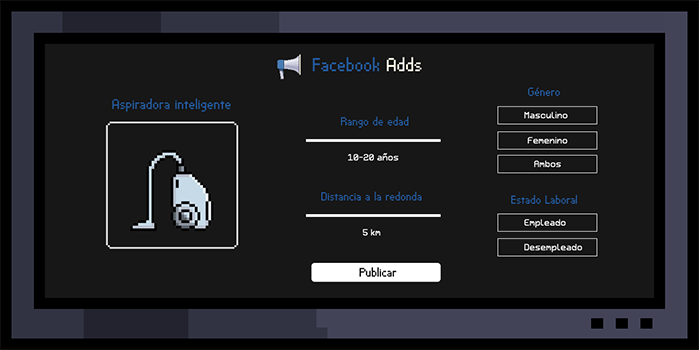
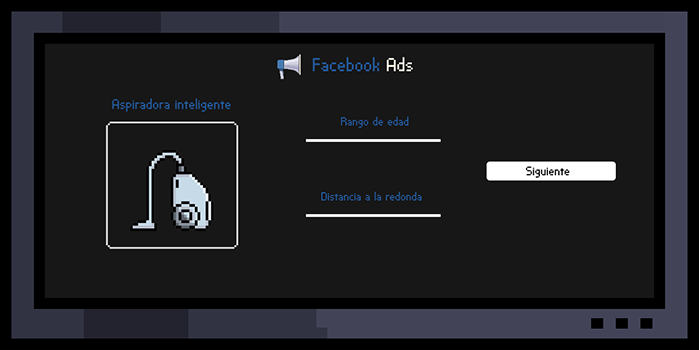
Finished levels

diff --git a/sketch.js b/sketch.js
@@ -1,6 +1,6 @@
 let player;
 let complemetaryObjs
-let screensCounter = 0;
+let screensCounter = 6;
 
 let playerLock = false;
 let transitioning = true;
@@ -44,6 +44,15 @@ let gameFiveCases = false;
 let rangeOneX = 303;
 let rangeOneY = 140;
 let rangeOneOn = false;
+let rangeTwoX = 303;
+let rangeTwoY = 215;
+let rangeTwoOn = false;
+let backgroundCounter = 0;
+let secondScreenFive = false;
+let backgroundOneDecision = 0;
+let secondAct = false;
+let backgroundTwoDecOne = 0;
+let backgroundTwoDecTwo = 0;
 
 
 // Donde se pueden colocar las cervezas
@@ -93,7 +102,7 @@ function preload() {
   //Cosas del 5 juego
 
   instructionsGame5 = [loadImage("./assets/instructionsGame5_1.png"), loadImage("./assets/instructionsGame5_2.png"), loadImage("./assets/nivel5background.png")];
-
+  backgroundsGame5 = [loadImage("./assets/nivel5background2.png"), loadImage("./assets/nivel5background3.png")]
 
   // Cosas del cuarto juego
   gameFouDialogue = loadImage("./assets/game4-location1.png");
@@ -275,19 +284,23 @@ function draw() {
       case 6:
         image(instructionsGame5[instructionsOrderFive], 0, 0)
         
+        let rangeOneValue = "";
+        let rangeTwoValue = "";
 
-        if (gameFiveCases === true) { 
+        if (gameFiveCases === true) {
 
           fill(35, 89, 155)
           circle(rangeOneX, rangeOneY, 10)
+          circle(rangeTwoX, rangeTwoY, 10)
 
 
           if (rangeOneOn === true) {
             rangeOneX = mouseX;
           }
 
-          if (rangeOneX > 434 && rangeOneOn === true) {
-            rangeOneX = 430;
+          //Limitex primera
+          if (rangeOneX > 438 && rangeOneOn === true) {
+            rangeOneX = 438;
             rangeOneOn = !rangeOneOn;
           }
 
@@ -296,13 +309,166 @@ function draw() {
             rangeOneOn = !rangeOneOn;
           }
 
-          if (rangeOneX > 303 && rangeOneX < 324) { 
-
-          } 
-
+          //Limites segunda
+          
+          if (rangeTwoOn === true) {
+            rangeTwoX = mouseX;
           }
 
+          if (rangeTwoX > 438 && rangeTwoOn === true) {
+            rangeTwoX = 438;
+            rangeTwoOn = !rangeTwoOn;
+          }
+
+          if (rangeTwoX < 303 && rangeTwoOn === true) {
+            rangeTwoX = 303;
+            rangeTwoOn = !rangeTwoOn;
+          }
+          //Primea
+          //1
+          if (rangeOneX > 303 && rangeOneX < 324) {
+            rangeOneValue = "0-10 años"
+          }
+
+          //2
+          if (rangeOneX > 324 && rangeOneX < 344) {
+            rangeOneValue = "10-15 años"
+          }
+
+          //3
+          if (rangeOneX > 344 && rangeOneX < 364) {
+            rangeOneValue = "15-20 años"
+          }
+
+          //4
+          if (rangeOneX > 364 && rangeOneX < 384) {
+            rangeOneValue = "20-25 años"
+          }
+
+          //5
+          if (rangeOneX > 384 && rangeOneX < 404) {
+            rangeOneValue = "25-30 años"
+          }
+
+          //6
+          if (rangeOneX > 404 && rangeOneX < 424) {
+            rangeOneValue = "35-40 años"
+          }
         
+          //7
+          if (rangeOneX > 424 && rangeOneX < 444) {
+            rangeOneValue = "40-45 años"
+          }
+
+
+          //Limites segunda
+
+          if (rangeTwoOn === true) {
+            rangeTwoX = mouseX;
+          }
+
+          if (rangeTwoX > 438 && rangeTwoOn === true) {
+            rangeTwoX = 438;
+            rangeTwoOn = !rangeTwoOn;
+          }
+
+          if (rangeTwoX < 303 && rangeTwoOn === true) {
+            rangeTwoX = 303;
+            rangeTwoOn = !rangeTwoOn;
+          }
+          //Primea
+          //1
+          if (rangeTwoX > 303 && rangeTwoX < 324) {
+            rangeTwoValue = "1 km"
+          }
+
+          //2
+          if (rangeTwoX > 324 && rangeTwoX < 344) {
+            rangeTwoValue = "2 km"
+          }
+
+          //3
+          if (rangeTwoX > 344 && rangeTwoX < 364) {
+            rangeTwoValue = "3 km"
+          }
+
+          //4
+          if (rangeTwoX > 364 && rangeTwoX < 384) {
+            rangeTwoValue = "4 km"
+          }
+
+          //5
+          if (rangeTwoX > 384 && rangeTwoX < 404) {
+            rangeTwoValue = "5 km"
+          }
+
+          //6
+          if (rangeTwoX > 404 && rangeTwoX < 424) {
+            rangeTwoValue = "10 km"
+          }
+
+          //7
+          if (rangeTwoX > 424 && rangeTwoX < 444) {
+            rangeTwoValue = "20 km"
+          }
+
+          fill(255)
+          textSize(14)
+          text(rangeOneValue, 349, 160)
+          text(rangeTwoValue, 349, 235)
+        }
+
+        if (secondScreenFive === true) {
+          image(backgroundsGame5[backgroundCounter], 0, 0)
+        }
+
+        //segunda pantalla
+        if (backgroundCounter === 0) { 
+          if (backgroundTwoDecOne === 1) {
+            fill(35, 89, 155, 40);
+            rect(312, 106, 100, 22);
+          }
+
+          if (backgroundTwoDecOne === 2) {
+            fill(35, 89, 155, 40);
+            rect(312, 131, 100, 22);
+          }
+
+
+          if (backgroundTwoDecOne === 3) {
+            fill(35, 89, 155, 40);
+            rect(312, 155, 100, 22);
+          }
+
+          if (backgroundTwoDecTwo === 1) {
+            fill(35, 89, 155, 40);
+            rect(312, 214, 100, 22);
+          }
+
+          if (backgroundTwoDecTwo === 2) {
+            fill(35, 89, 155, 40);
+            rect(312, 238, 100, 22);
+          }   
+
+        }
+       
+
+        //Tercera pantalla
+        if (backgroundOneDecision === 1) { 
+          fill(35, 89, 155, 40);
+          rect(277, 125, 190, 31);
+        }
+
+        if (backgroundOneDecision === 2) {
+          fill(35, 89, 155, 40);
+          rect(277, 181, 190, 31);
+        }
+
+        if (backgroundOneDecision === 3) {
+          fill(35, 89, 155, 40);
+          rect(277, 230, 190, 31);
+        }
+       
      
         console.log(mouseX)
 
@@ -580,10 +746,72 @@ function mousePressed() {
         gameFiveCases = true;
       }
 
-      if (dist(mouseX, mouseY, rangeOneX, rangeOneY) < 10) { 
+      if (dist(mouseX, mouseY, rangeOneX, rangeOneY) < 10) {
         rangeOneOn = !rangeOneOn;
       }
 
+      if (dist(mouseX, mouseY, rangeTwoX, rangeTwoY) < 10) {
+        rangeTwoOn = !rangeTwoOn;
+        console.log('undido')
+      }
+
+      if (mouseX > 488 && mouseX < 616 && mouseY > 160 && mouseY < 180) {
+        secondScreenFive = true;
+      }
+
+      // Decisiones del primer background
+
+
+      if (mouseX > 312 && mouseX < 412 && mouseY > 106 && mouseY < 124 && backgroundCounter === 0 && secondScreenFive === true) {
+        backgroundTwoDecOne = 1;
+        secondAct = true;
+      }
+
+
+      if (mouseX > 312 && mouseX < 412 && mouseY > 131 && mouseY < 150 && backgroundCounter === 0 && secondScreenFive === true) {
+        backgroundTwoDecOne = 2;
+        secondAct = true;
+      }
+
+
+      if (mouseX > 312 && mouseX < 412 && mouseY > 155 && mouseY < 177 && backgroundCounter === 0 && secondScreenFive === true) {
+        backgroundTwoDecOne = 3;
+        secondAct = true;
+      }
+
+      if (mouseX > 312 && mouseX < 412 && mouseY > 214 && mouseY < 236 && backgroundCounter === 0 && secondScreenFive === true) {
+        backgroundTwoDecTwo = 1;
+        secondAct = true;
+      }
+
+      if (mouseX > 312 && mouseX < 412 && mouseY > 238 && mouseY < 260 && backgroundCounter === 0 && secondScreenFive === true) {
+        backgroundTwoDecTwo = 2;
+        secondAct = true;
+      }
+
+      if (mouseX > 488 && mouseX < 616 && mouseY > 160 && mouseY < 180 && backgroundCounter === 0 && secondAct == true) {
+        backgroundCounter = 1;
+      }
+      
+      
+      if (secondAct == true && secondScreenFive == true && backgroundCounter === 1) { 
+
+        // Primera
+        if (mouseX > 278 && mouseX < 464 && mouseY > 124 && mouseY < 158) { 
+          backgroundOneDecision = 1;
+        }
+
+        if (mouseX > 278 && mouseX < 464 && mouseY > 180 && mouseY < 214) {
+          backgroundOneDecision = 2;
+        }
+
+        if (mouseX > 278 && mouseX < 464 && mouseY > 229 && mouseY < 264) {
+          backgroundOneDecision = 3;
+        }
+
+       
+
+      }
       break;
   }
 }
